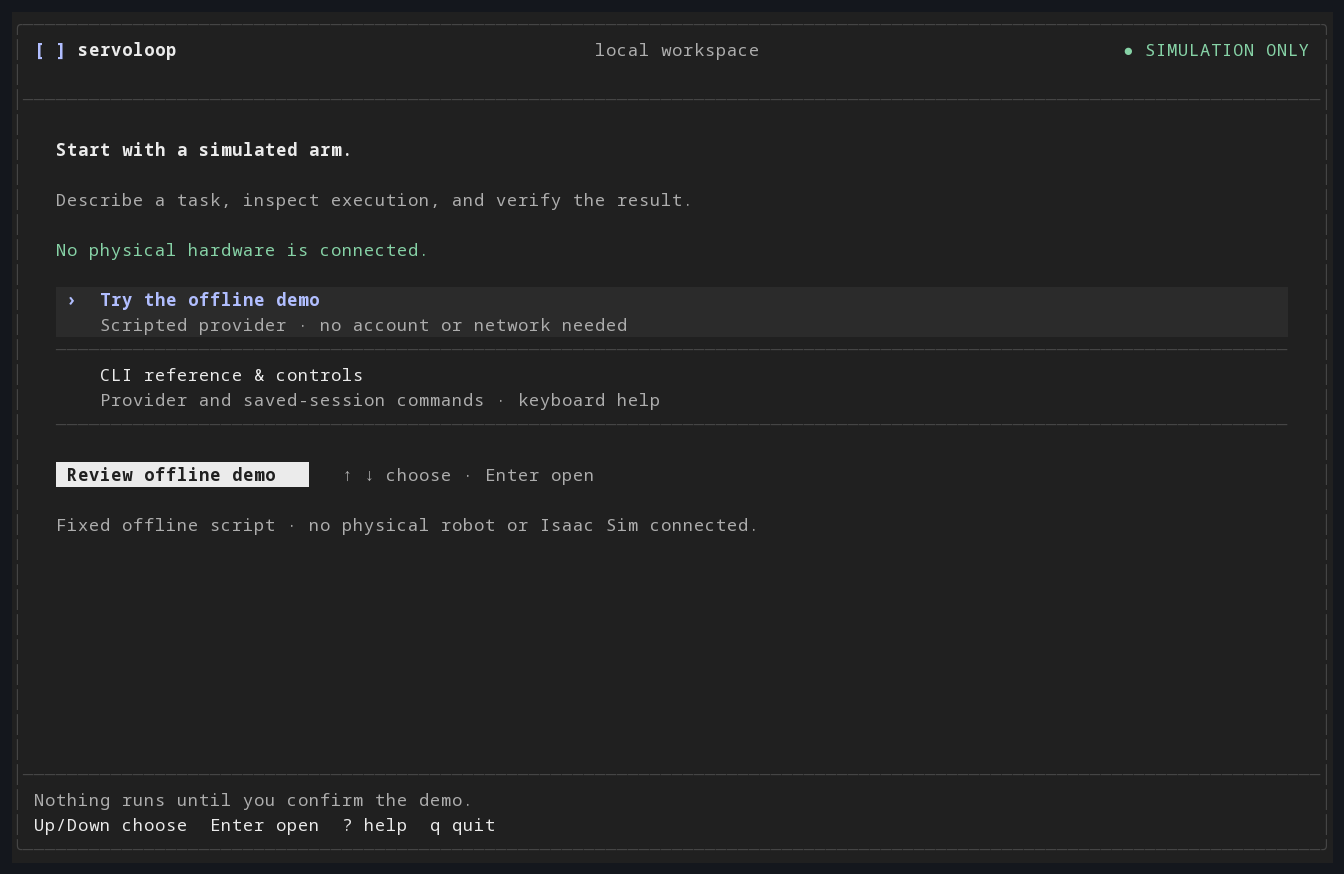
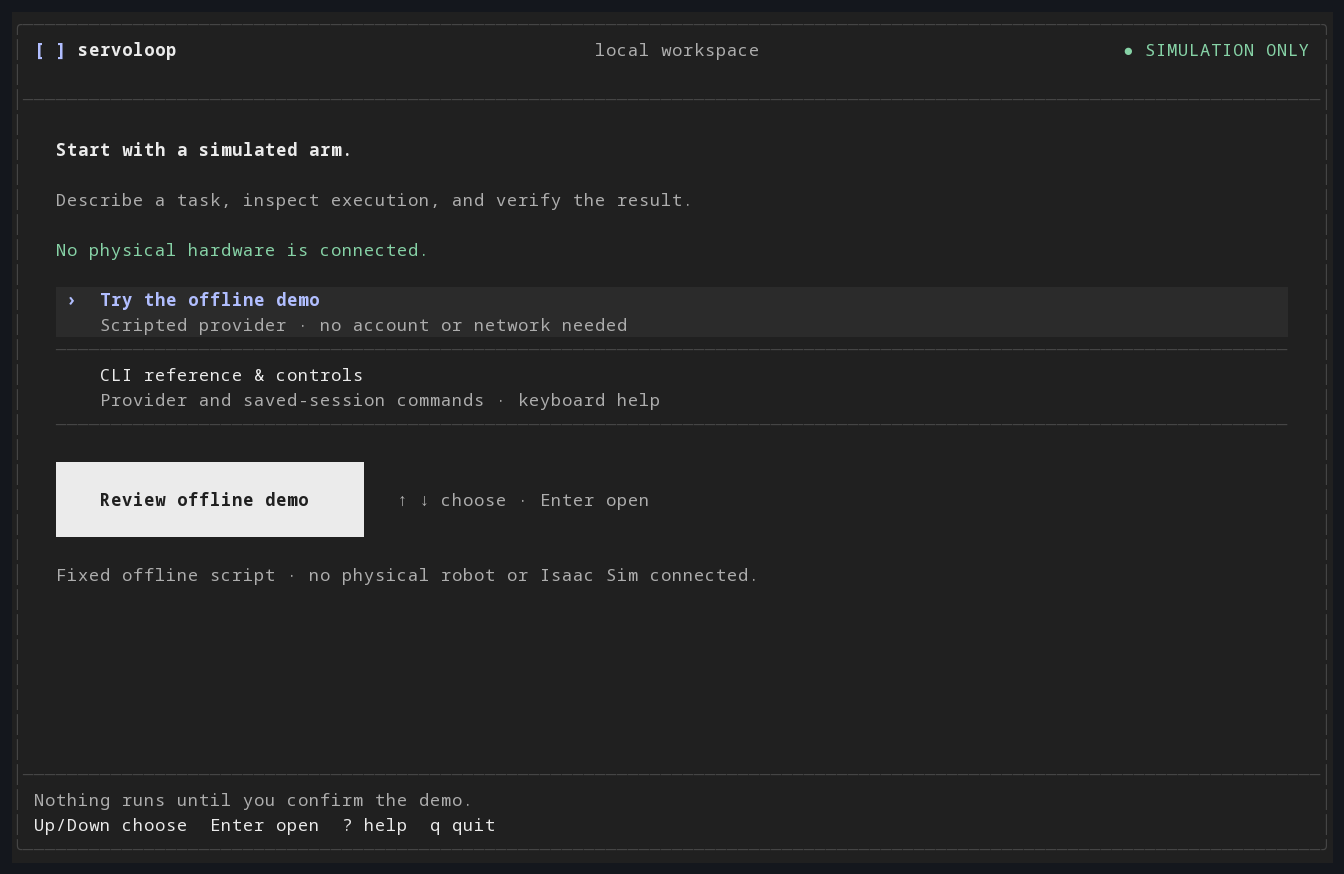
Unify terminal primary button sizing and spacing

diff --git a/apps/servoloop-cli/src/ui/view.rs b/apps/servoloop-cli/src/ui/view.rs
@@ -254,7 +254,7 @@ fn welcome(frame: &mut Frame, area: Rect, view: &View<'_>) -> usize {
     let [intro, menu, button, note] = Layout::vertical([
         Constraint::Length(if area.height >= 17 { 6 } else { 5 }),
         Constraint::Length(7),
-        Constraint::Length(2),
+        Constraint::Length(if area.height >= 20 { 4 } else { 2 }),
         Constraint::Min(1),
     ])
     .areas(area);
@@ -319,26 +319,16 @@ fn welcome(frame: &mut Frame, area: Rect, view: &View<'_>) -> usize {
             rows[index],
         );
     }
-    frame.render_widget(
-        Paragraph::new(Line::from(vec![
-            Span::styled(
-                if view.selected == 0 {
-                    " Review offline demo ↵ "
-                } else {
-                    " Open CLI reference ↵ "
-                },
-                if t.bg == Color::Reset {
-                    t.text().add_modifier(Modifier::REVERSED | Modifier::BOLD)
-                } else {
-                    Style::default()
-                        .fg(t.bg)
-                        .bg(t.fg)
-                        .add_modifier(Modifier::BOLD)
-                },
-            ),
-            Span::styled("   ↑ ↓ choose · Enter open", t.subdued()),
-        ])),
+    primary_action(
+        frame,
         button,
+        if view.selected == 0 {
+            "Review offline demo ↵"
+        } else {
+            "Open CLI reference ↵"
+        },
+        "↑ ↓ choose · Enter open",
+        t,
     );
     paragraph(
         frame,
@@ -360,9 +350,14 @@ fn welcome(frame: &mut Frame, area: Rect, view: &View<'_>) -> usize {
 fn review(frame: &mut Frame, area: Rect, view: &View<'_>) -> usize {
     let t = view.theme;
     let area = panel(frame, area, " Offline demo / review before running ", t);
-    paragraph(
+    let [body, action] = Layout::vertical([
+        Constraint::Min(1),
+        Constraint::Length(if area.height >= 20 { 4 } else { 2 }),
+    ])
+    .areas(area);
+    let scroll = paragraph(
         frame,
-        area,
+        body,
         vec![
             Line::styled("Review the offline demo", t.title()),
             Line::from(""),
@@ -375,12 +370,52 @@ fn review(frame: &mut Frame, area: Rect, view: &View<'_>) -> usize {
             Line::from("This is a fixed script, not a free-form AI conversation."),
             Line::from("Configured providers are not contacted."),
             Line::styled(format!("Local records: {}", view.report.store), t.subdued()),
-            Line::from(""),
-            Line::styled("[r] Run this demo", t.accent()),
         ],
         view.scroll,
         t,
-    )
+    );
+    primary_action(
+        frame,
+        action,
+        "[r] Run this demo",
+        "Esc back · r confirms",
+        t,
+    );
+    scroll
+}
+
+/// One terminal-sized button treatment for primary actions. The last row is
+/// spacing, not part of the button; short viewports use a one-line version.
+fn primary_action(frame: &mut Frame, area: Rect, label: &str, hint: &str, theme: Theme) {
+    let height = if area.height >= 4 { 3 } else { 1 };
+    let width = 28.min(area.width);
+    let style = if theme.bg == Color::Reset {
+        theme
+            .text()
+            .add_modifier(Modifier::REVERSED | Modifier::BOLD)
+    } else {
+        Style::default()
+            .fg(theme.bg)
+            .bg(theme.fg)
+            .add_modifier(Modifier::BOLD)
+    };
+    let button = Rect::new(area.x, area.y, width, height);
+    frame.render_widget(Block::default().style(style), button);
+    frame.render_widget(
+        Paragraph::new(label)
+            .alignment(Alignment::Center)
+            .style(style),
+        Rect::new(button.x, button.y + height / 2, button.width, 1),
+    );
+    let hint_width = area.width.saturating_sub(width + 3);
+    // The persistent footer carries the same shortcuts when a full hint
+    // doesn't fit. Never show a partially clipped keyboard instruction.
+    if Line::from(hint).width() <= usize::from(hint_width) {
+        frame.render_widget(
+            Paragraph::new(hint).style(theme.subdued()),
+            Rect::new(area.x + width + 3, area.y + height / 2, hint_width, 1),
+        );
+    }
 }
 
 fn activity(frame: &mut Frame, area: Rect, view: &View<'_>) -> usize {
@@ -612,6 +647,36 @@ fn paragraph(
 mod tests {
     use super::*;
     use ratatui::{backend::TestBackend, Terminal};
+
+    #[test]
+    fn primary_buttons_share_dimensions_and_center_labels() {
+        for height in [2, 4] {
+            for label in [
+                "Review offline demo ↵",
+                "Open CLI reference ↵",
+                "[r] Run this demo",
+            ] {
+                let theme = Theme::named("dark");
+                let mut terminal = Terminal::new(TestBackend::new(60, height)).unwrap();
+                terminal
+                    .draw(|frame| primary_action(frame, frame.area(), label, "Esc back", theme))
+                    .unwrap();
+                let buffer = terminal.backend().buffer();
+                let button_height = if height == 4 { 3 } else { 1 };
+                for y in 0..button_height {
+                    for x in 0..28 {
+                        assert_eq!(buffer[(x, y)].bg, theme.fg);
+                    }
+                    assert_ne!(buffer[(28, y)].bg, theme.fg);
+                }
+                let text: String = (0..28)
+                    .map(|x| buffer[(x, button_height / 2)].symbol())
+                    .collect();
+                assert!(text.contains(label));
+                assert!(text.starts_with(' ') && text.ends_with(' '));
+            }
+        }
+    }
 
     #[test]
     fn text_roles_meet_contrast_target_in_both_explicit_palettes() {
